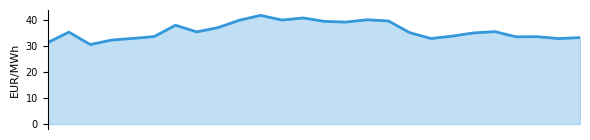
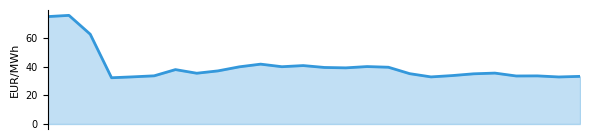
Update Gasspeicher-Report 2026-02-13 06:47

Changed region(s): [[0.0305, 0.0857, 1.0, 0.5714], [0.0305, 0.6286, 0.0915, 0.7429], [0.0305, 0.4571, 0.0915, 0.5429]]

diff --git a/index.html b/index.html
@@ -3,7 +3,7 @@
 <head>
 <meta charset="UTF-8">
 <meta name="viewport" content="width=device-width, initial-scale=1.0">
-<title>Energienotfall.de - Energie braucht einen Plan B | Gasspeicher 25.2% | 12.02.2026</title>
+<title>Energienotfall.de - Energie braucht einen Plan B | Gasspeicher 25.2% | 13.02.2026</title>
 <!-- SEO Meta Tags -->
 <meta name="description" content="Energienotfall.de: Energie braucht einen Plan B. Gasspeicher 25.2%, 5 Energieträger im Risikoprofil, Diversifikations-Effekt berechnet. Wer nur auf eine Quelle setzt, riskiert Versorgung und Geldbeutel.">
 <meta name="keywords" content="Energie Plan B, Versorgungssicherheit, Energieresilienz, Gasspeicher Deutschland, Energieträger Vergleich, Diversifikation, Heizung Ausfall, Gasversorgung, Risikoprofil, Pellets, Holz, Strom, Wärmepumpe">
@@ -12,17 +12,17 @@
 <link rel="canonical" href="https://www.energienotfall.de/">
 <link rel="alternate" hreflang="de" href="https://www.energienotfall.de/">
 <link rel="alternate" hreflang="x-default" href="https://www.energienotfall.de/">
-<link rel="preload" as="image" type="image/webp" href="Gasspeicher_Vorhersage_2026-02-12.webp">
+<link rel="preload" as="image" type="image/webp" href="Gasspeicher_Vorhersage_2026-02-13.webp">
 <!-- Open Graph (Facebook, LinkedIn) -->
 <meta property="og:type" content="website">
 <meta property="og:url" content="https://www.energienotfall.de/">
-<meta property="og:title" content="Energienotfall.de - Energie braucht einen Plan B | 12.02.2026">
+<meta property="og:title" content="Energienotfall.de - Energie braucht einen Plan B | 13.02.2026">
 <meta property="og:description" content="Energie braucht einen Plan B: Gasspeicher 25.2%, 5 Energieträger im Risikoprofil – Kann ich heizen, meinen Betrieb sichern, meine Produktion aufrechterhalten, wenn ein Energieträger ausfällt?">
 <meta property="og:locale" content="de_DE">
 <meta property="og:site_name" content="Energienotfall.de">
 <!-- Twitter Card -->
 <meta name="twitter:card" content="summary_large_image">
-<meta name="twitter:title" content="Energienotfall.de - Energie braucht einen Plan B | 12.02.2026">
+<meta name="twitter:title" content="Energienotfall.de - Energie braucht einen Plan B | 13.02.2026">
 <meta name="twitter:description" content="Energie braucht einen Plan B: Gasspeicher 25.2%. Risikoprofil, Diversifikations-Effekt und Plan-B-Check für Haus, Betrieb und Produktion.">
 <!-- JSON-LD Structured Data -->
 <script type="application/ld+json">
@@ -196,11 +196,11 @@ Kältewelle: +50% Verbrauch | Mild: -30% Verbrauch
 <div class="label">Gas (EUR/MWh)</div>
 </div>
 <div class="spark-item">
-<div class="value">107.0</div>
+<div class="value">120.4</div>
 <div class="label">Strom (EUR/MWh)</div>
 </div>
 <div class="spark-item">
-<div class="value spark-profitable">+47.0</div>
+<div class="value spark-profitable">+60.4</div>
 <div class="label">Spread (EUR/MWh)</div>
 </div>
 </div>
@@ -245,8 +245,8 @@ Quellen: Gas (TTF) | Strom (EPEX Spot (energy-charts.info))
 <div class="chart-container">
 <h2 style="margin-bottom: 1rem;">📈 Vorhersage-Diagramm</h2>
 <picture>
-<source srcset="Gasspeicher_Vorhersage_2026-02-12.webp" type="image/webp">
-<img src="Gasspeicher_Vorhersage_2026-02-12.png" alt="Gasspeicher Vorhersage bis 12.04.2026" loading="lazy" width="1920" height="960" />
+<source srcset="Gasspeicher_Vorhersage_2026-02-13.webp" type="image/webp">
+<img src="Gasspeicher_Vorhersage_2026-02-13.png" alt="Gasspeicher Vorhersage bis 12.04.2026" loading="lazy" width="1920" height="960" />
 </picture>
 <div style="margin-top: 0.75rem; font-size: 0.8rem; color: #666;">
 Vorhersage: 60 Tage | Tiefpunkt: 7.2% am 12.04.2026
@@ -702,7 +702,7 @@ AUSFALL<br>RISIKO
 <div class="heating-row">
 <div class="heating-label">Holz (Buche)</div>
 <div class="heating-bar-bg">
-<div class="heating-bar" style="width:55%;background:#8B4513;">
+<div class="heating-bar" style="width:53%;background:#8B4513;">
 <span>4.8 ct</span>
 </div>
 </div>
@@ -711,7 +711,7 @@ AUSFALL<br>RISIKO
 <div class="heating-row">
 <div class="heating-label">Pellets</div>
 <div class="heating-bar-bg">
-<div class="heating-bar" style="width:61%;background:#D2691E;">
+<div class="heating-bar" style="width:59%;background:#D2691E;">
 <span>5.4 ct</span>
 </div>
 </div>
@@ -720,7 +720,7 @@ AUSFALL<br>RISIKO
 <div class="heating-row">
 <div class="heating-label">Erdgas</div>
 <div class="heating-bar-bg">
-<div class="heating-bar" style="width:94%;background:#3498db;">
+<div class="heating-bar" style="width:91%;background:#3498db;">
 <span>8.3 ct</span>
 </div>
 </div>
@@ -729,7 +729,7 @@ AUSFALL<br>RISIKO
 <div class="heating-row">
 <div class="heating-label">Heizöl</div>
 <div class="heating-bar-bg">
-<div class="heating-bar" style="width:97%;background:#7f8c8d;">
+<div class="heating-bar" style="width:93%;background:#7f8c8d;">
 <span>8.5 ct</span>
 </div>
 </div>
@@ -739,7 +739,7 @@ AUSFALL<br>RISIKO
 <div class="heating-label">Strom (WP)</div>
 <div class="heating-bar-bg">
 <div class="heating-bar" style="width:100%;background:#27ae60;">
-<span>8.8 ct</span>
+<span>9.1 ct</span>
 </div>
 </div>
 <div class="heating-source">EPEX live (COP 3.5) <span style="background:#27ae60;color:#fff;font-size:0.6rem;padding:1px 4px;border-radius:3px;margin-left:4px;">LIVE</span></div>
